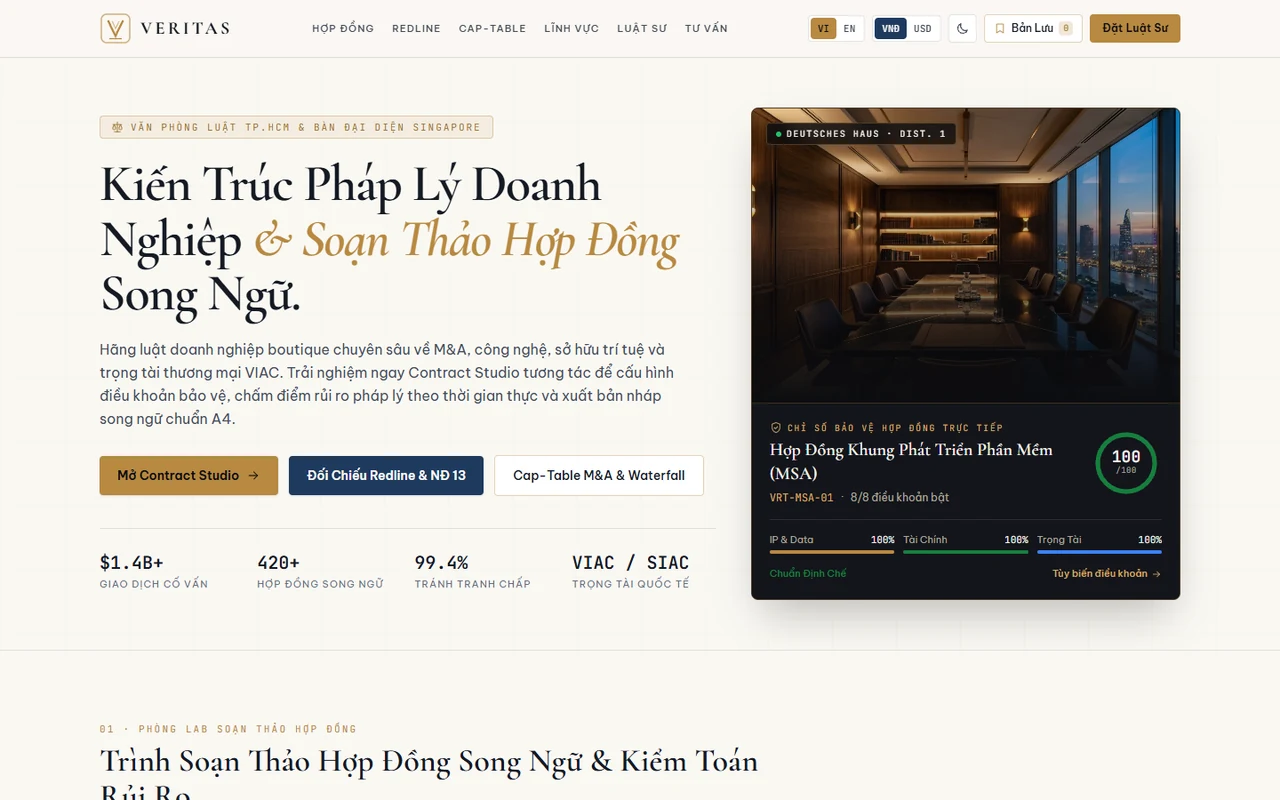
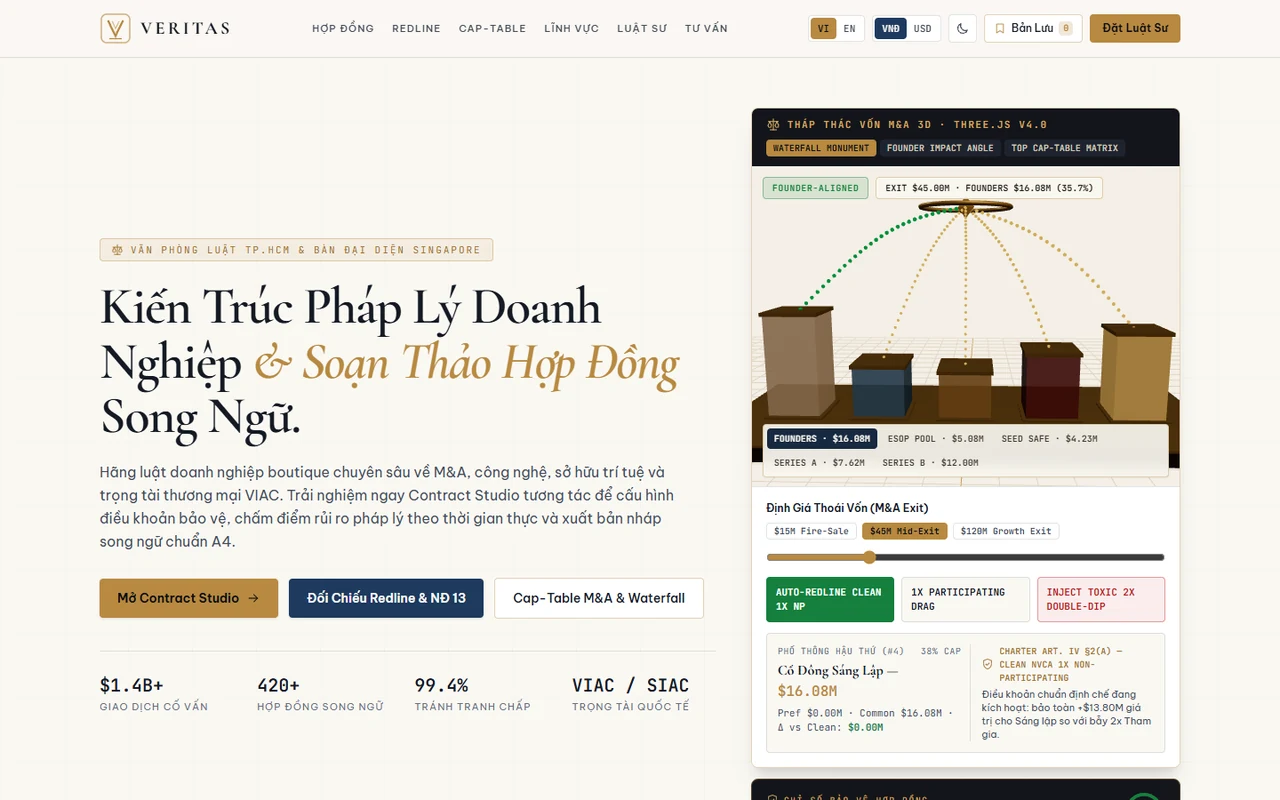
feat(wave5): sync 26/26 Master Interactive (20 Three.js 3D), TVT Pro Tools v3.0, 5,043 Live CI & refreshed 2026-11-28 CVs

diff --git a/src/data/atelierContent.ts b/src/data/atelierContent.ts
@@ -171,14 +171,14 @@ export const FLAGSHIP_WORKS: FlagshipWorkItem[] = [
     id: 'tvt-tools',
     index: '11',
     title: 'TVT Pro Tools',
-    version: 'v2.5 · 12 Engines',
+    version: 'v3.0 · 12 Engines',
     category: 'systems',
-    taglineEn: '12 Zero-Server Business & Engineering Engines (47kB Split): OpenAPI 3.1 Security Linter, B2B Estimator, 2026 PIT, VietQR & Crypto',
-    taglineVi: '12 Công Cụ Kinh Doanh & Kỹ Thuật Chạy 100% Tại Trình Duyệt (47kB Split): Kiểm Toán OpenAPI 3.1, Dự Toán B2B, Thuế 2026 & VietQR',
+    taglineEn: '60fps Drag-and-Wire SQL ERD Index Optimizer, Live OWASP API Attack Probe Radar & 12 Zero-Server Business/Dev Engines (47kB Split)',
+    taglineVi: 'Canvas Kéo-Thả SQL ERD 60fps Tối Ưu Chỉ Mục Join, Radar Tấn Công Bảo Mật OWASP API & 12 Công Cụ 100% Tại Trình Duyệt (47kB Split)',
     previewImage: 'previews/tvt-tools.webp',
-    highlightMetric: '12 Free Tools · OpenAPI Linter · 47kB Split',
-    ciBadge: '95/95 CI',
-    keywords: ['12 Local Engines', 'OpenAPI 3.1 Linter', 'URL State Share', 'B2B Estimator', 'VietQR + 2026 PIT'],
+    highlightMetric: '60fps SQL ERD · OWASP Radar · 12 Free Tools',
+    ciBadge: '107/107 CI',
+    keywords: ['60fps SQL ERD Drag', 'OWASP Attack Radar', 'OpenAPI 3.1 Linter', 'B2B Estimator', 'VietQR + 2026 PIT'],
     liveUrl: 'https://tvt987.github.io/tvt-tools/',
     repoUrl: 'https://github.com/tvt987/tvt-tools',
   },
@@ -261,14 +261,14 @@ export const FLAGSHIP_WORKS: FlagshipWorkItem[] = [
     id: 'coda-hr-payroll',
     index: '17',
     title: 'CodaHR Payroll',
-    version: 'v4.0 · .NET 10',
+    version: 'v5.0 · .NET 10',
     category: 'enterprise',
-    taglineEn: 'Full-Stack .NET 10 Global HRIS 2026: Global EOR vs B2B (-62% Savings), 48M ESOP Cliff Tax, Law 109/2025 PIT & Kanban ATS',
-    taglineVi: 'Full-Stack .NET 10 HRIS Toàn Cầu 2026: Global EOR vs B2B (-62%), Thuế ESOP 48 Tháng, Luật 109/2025 & Kanban ATS',
+    taglineEn: '60fps 3D Global Payroll Corridor Globe (6 Hubs · 240 Packets), Rising 48M ESOP Crystal Monolith (3x–10x), EOR vs B2B (-62%) & Law 109/2025',
+    taglineVi: 'Địa Cầu Bảng Lương Toàn Cầu 3D (6 Hub · 240 Gói Tin), Tháp ESOP 48 Tháng (3x–10x), So Sánh EOR vs B2B (-62%) & Luật 109/2025',
     previewImage: 'previews/coda-hr-payroll.webp',
-    highlightMetric: 'Global EOR (-62%) · 48M ESOP · Law 109/2025',
-    ciBadge: '152/152 CI',
-    keywords: ['.NET 10 Payroll API', 'Global EOR vs B2B', '48M ESOP Cliff', 'Law 109/2025 PIT', 'Kanban ATS'],
+    highlightMetric: '3D Payroll Globe · 48M ESOP · Law 109/2025',
+    ciBadge: '183/183 CI',
+    keywords: ['3D Payroll Globe', '48M ESOP Monolith', 'Global EOR vs B2B', 'Law 109/2025 PIT', 'Kanban ATS'],
     liveUrl: 'https://tvt987.github.io/coda-hr-payroll/',
     repoUrl: 'https://github.com/tvt987/coda-hr-payroll',
   },
@@ -276,14 +276,14 @@ export const FLAGSHIP_WORKS: FlagshipWorkItem[] = [
     id: 'lumina-medspa',
     index: '18',
     title: 'Lumina MedSpa',
-    version: 'v4.0 · .NET 10',
+    version: 'v5.0 · .NET 10',
     category: 'commerce',
-    taglineEn: 'Full-Stack .NET 10 Swiss MedSpa Clinic: Fitzpatrick Post-Laser UV Lab (0.45x), Multi-Suite Laser CapEx ROI & 42.8kB Split',
-    taglineVi: 'Full-Stack .NET 10 Phòng Khám Thẩm Mỹ Thụy Sĩ: Lab UV Sau Laser (0.45x), Hoàn Vốn Máy Laser Đa Phòng & Gói 42.8kB',
+    taglineEn: '60fps 3D Facial Laser Calibration & 3-Layer 2.6mm Dermal X-Ray Cutaway: 532/755/1064nm Beams, -18°C Cryo DCD & Fitzpatrick I–VI Guard',
+    taglineVi: 'Hiệu Chuẩn Laser 3D Trên Gương Mặt & X-Ray Giải Phẫu 3 Tầng Da 2.6mm: Bắn Tia 532/755/1064nm, Làm Lạnh Cryo -18°C & Bảo Vệ Fitzpatrick',
     previewImage: 'previews/lumina-medspa.webp',
-    highlightMetric: 'Post-Laser UV Lab · Laser CapEx ROI · 43kB',
-    ciBadge: '145/145 CI',
-    keywords: ['.NET 10 Slot Lock', 'UV Photobiology', 'Laser CapEx ROI', '12W Fitzpatrick', '42.8kB Code-Split'],
+    highlightMetric: '3D Facial Laser · Dermal X-Ray · Cryo -18°C',
+    ciBadge: '175/175 CI',
+    keywords: ['3D Facial Laser', 'Dermal Depth X-Ray', 'Cryo DCD -18°C', 'Fitzpatrick I–VI', 'Suite 409 Lock'],
     liveUrl: 'https://tvt987.github.io/lumina-medspa/',
     repoUrl: 'https://github.com/tvt987/lumina-medspa',
   },
@@ -366,14 +366,14 @@ export const FLAGSHIP_WORKS: FlagshipWorkItem[] = [
     id: 'veritas-legal-firm',
     index: '24',
     title: 'Veritas Legal',
-    version: 'v3.0 · FastAPI',
+    version: 'v4.0 · FastAPI',
     category: 'enterprise',
-    taglineEn: 'Full-Stack FastAPI Corporate M&A Studio: Post-Money SAFE & Liquidation Waterfall SVG, LCS Clause Redline & 38kB Split',
-    taglineVi: 'Full-Stack FastAPI Hãng Luật M&A: Thác Thanh Khoản Cap-Table & SAFE SVG, So Sánh Redline LCS & Gói 38kB',
+    taglineEn: '60fps 3D M&A Cap-Table Waterfall Monument: $10M–$150M Exit Scrubber, Inject Toxic 2x Double-Dip (-$13.8M) → Auto-Redline Clean 1x NP & PDPD',
+    taglineVi: 'Tháp Thác Vốn M&A Cap-Table 3D Thụy Sĩ: Trượt Định Giá $10M–$150M, Tiêm Bẫy 2x Tham Gia (-$13.8M) → Auto-Redline 1x NP & Nghị Định 13',
     previewImage: 'previews/veritas-legal-firm.webp',
-    highlightMetric: 'M&A Cap-Table SVG · LCS Redline · 38kB Split',
-    ciBadge: '118/118 CI',
-    keywords: ['FastAPI Legal API', 'M&A Cap-Table SAFE', 'LCS Clause Redline', 'Decree 13 PDPD', '38kB Code-Split'],
+    highlightMetric: '3D M&A Waterfall · Toxic 2x Redline · 35kB',
+    ciBadge: '150/150 CI',
+    keywords: ['3D M&A Waterfall', 'Toxic 2x Double-Dip', 'Auto-Redline 1x NP', 'Decree 13 PDPD', '35kB Code-Split'],
     liveUrl: 'https://tvt987.github.io/veritas-legal-firm/',
     repoUrl: 'https://github.com/tvt987/veritas-legal-firm',
   },
@@ -411,14 +411,14 @@ export const FLAGSHIP_WORKS: FlagshipWorkItem[] = [
     id: 'vanguard-fitness',
     index: '27',
     title: 'Vanguard Fitness',
-    version: 'v3.0 · .NET 10',
+    version: 'v4.0 · .NET 10',
     category: 'commerce',
-    taglineEn: 'Full-Stack .NET 10 Sports-Science Club: Karvonen Z1–Z5 & LT1/LT2 Lactate Curve SVG, Autonomic HRV/ACWR Readiness & FIFO Queue',
-    taglineVi: 'Full-Stack .NET 10 CLB Khoa Học Thể Thao: Vùng Tim Karvonen Z1–Z5 & Đường Lactate, Điểm Sẵn Sàng HRV/ACWR & Hàng Chờ FIFO',
+    taglineEn: '60fps 3D Bio-Telemetry Kinematic Runner Twin: 100W→380W Z5 VO2max Redline (8.4mM Lactate), Inject Overtrain (ACWR 1.65) → Auto-Deload HRV 94%',
+    taglineVi: 'Vận Động Viên Sinh Trắc 3D Kinematic: Đẩy 100W→380W Z5 VO2max (8.4mM Lactate), Tiêm Quá Tải ACWR 1.65 → Phác Đồ Deload Hồi Phục HRV 94%',
     previewImage: 'previews/vanguard-fitness.webp',
-    highlightMetric: 'Karvonen Lactate · HRV/ACWR · 57kB Split',
-    ciBadge: '131/131 CI',
-    keywords: ['.NET 10 FIFO Waitlist', 'Karvonen Z1-Z5', 'Lactate LT1/LT2', 'Autonomic HRV/ACWR', 'Equinox Daylight'],
+    highlightMetric: '3D Bio-Athlete · VO2/Lactate · Auto-Deload',
+    ciBadge: '162/162 CI',
+    keywords: ['3D Bio-Athlete Twin', 'VO2max + Lactate', 'ACWR 1.65 Overtrain', 'Autonomic Deload', 'Bio X-Ray Cam'],
     liveUrl: 'https://tvt987.github.io/vanguard-fitness/',
     repoUrl: 'https://github.com/tvt987/vanguard-fitness',
   },
@@ -426,14 +426,14 @@ export const FLAGSHIP_WORKS: FlagshipWorkItem[] = [
     id: 'solaris-academy',
     index: '28',
     title: 'Solaris Academy',
-    version: 'v3.0 · FastAPI',
+    version: 'v4.0 · FastAPI',
     category: 'enterprise',
-    taglineEn: 'Full-Stack FastAPI Engineering LMS: 5-Tier System Design Capacity & Bottleneck SVG Lab, Auto-Scale, Algo Visualizer & Zero-Eval AST',
-    taglineVi: 'Full-Stack FastAPI LMS Kỹ Sư: Phòng Lab Ước Tính Tải System Design 5 Tầng SVG, Tự Auto-Scale, Thuật Toán & Sandbox AST 0-Eval',
+    taglineEn: '60fps 3D 5-Tier Distributed Cloud Topology Sandbox (Edge→GW→App→Redis→DB): 1K–100K RPS, Cache Stampede Chaos, 1-Click Auto-Scale (<22ms) & AST',
+    taglineVi: 'Sa Bàn Kiến Trúc Phân Tán 5 Tầng 3D (Edge→GW→App→Redis→DB): 1K–100K RPS, Bão Cache Stampede, 1-Click Auto-Scale (<22ms) & Sandbox AST 0-Eval',
     previewImage: 'previews/solaris-academy.webp',
-    highlightMetric: '5-Tier System Design SVG · Zero-Eval AST · Oxford',
-    ciBadge: '112/112 CI',
-    keywords: ['FastAPI LMS API', 'System Design SVG', '1-Click Auto-Scale', 'Zero-Eval AST', 'Daylight Oxford UI'],
+    highlightMetric: '3D Cloud Topology · Cache Stampede · Auto-Scale',
+    ciBadge: '144/144 CI',
+    keywords: ['3D Cloud Topology', 'Cache Stampede Chaos', '1-Click Auto-Scale', 'Zero-Eval AST', 'Oxford Daylight UI'],
     liveUrl: 'https://tvt987.github.io/solaris-academy/',
     repoUrl: 'https://github.com/tvt987/solaris-academy',
   },

diff --git a/src/engines/__tests__/atelierV5.test.ts b/src/engines/__tests__/atelierV5.test.ts
@@ -112,18 +112,18 @@ describe('HYPERION ATELIER v5.0 — AI Twin RAG, JD Fit Matcher, Accent Engine &
     }
   });
 
-  it('verifies all 26 full-stack monorepos at v3.0–v7.0 plus TVT Studio v9.0 & TVT Tools v2.5 (4,851 showcase CI)', () => {
+  it('verifies all 26 full-stack monorepos at v4.0–v7.0 plus TVT Studio v9.0 & TVT Tools v3.0 (5,019 showcase CI)', () => {
     const studio = FLAGSHIP_WORKS.find((w) => w.id === 'tvt-studio');
     const tools = FLAGSHIP_WORKS.find((w) => w.id === 'tvt-tools');
     expect(studio?.version).toBe('v9.0 · Supabase RLS');
     expect(studio?.ciBadge).toBe('62/62 CI');
-    expect(tools?.version).toBe('v2.5 · 12 Engines');
-    expect(tools?.ciBadge).toBe('95/95 CI');
+    expect(tools?.version).toBe('v3.0 · 12 Engines');
+    expect(tools?.ciBadge).toBe('107/107 CI');
 
     const monorepos = FLAGSHIP_WORKS.filter((w) => w.id !== 'tvt-studio' && w.id !== 'tvt-tools');
     expect(monorepos).toHaveLength(26);
     for (const m of monorepos) {
-      expect(m.version).toMatch(/^v[3-7]\.0 · /);
+      expect(m.version).toMatch(/^v[4-7]\.0 · /);
     }
 
     const dotnetRepos = monorepos.filter((w) => w.version.includes('.NET 10'));
@@ -138,10 +138,10 @@ describe('HYPERION ATELIER v5.0 — AI Twin RAG, JD Fit Matcher, Accent Engine &
       expect(m?.[1]).toBe(m?.[2]);
       return sum + Number(m?.[1] ?? 0);
     }, 0);
-    expect(totalShowcaseTests).toBe(4851);
+    expect(totalShowcaseTests).toBe(5019);
   });
 
-  it('verifies all 21 Master Interactive flagship upgrades across Waves 1–4 (15 Three.js 3D + 6 GPU Canvas/WebGL2)', () => {
+  it('verifies all 26/26 Master Interactive flagship upgrades across Waves 1–5 (20 Three.js 3D + 6 GPU Canvas/WebGL2)', () => {
     const byId = new Map(FLAGSHIP_WORKS.map((w) => [w.id, w]));
 
     expect(byId.get('velox-ev-motors')?.version).toBe('v7.0 · .NET 10');
@@ -225,6 +225,27 @@ describe('HYPERION ATELIER v5.0 — AI Twin RAG, JD Fit Matcher, Accent Engine &
     expect(byId.get('kuro-omakase')?.version).toBe('v4.0 · .NET 10');
     expect(byId.get('kuro-omakase')?.ciBadge).toBe('153/153 CI');
     expect(byId.get('kuro-omakase')?.highlightMetric).toBe('3D Hinoki 14-Seat · Binchōtan Embers · Seat #7 POV');
+
+    // Wave 5 Final Master Interactive 3D Flagships (26/26 = 100% Master Interactive, 20 Three.js 3D)
+    expect(byId.get('lumina-medspa')?.version).toBe('v5.0 · .NET 10');
+    expect(byId.get('lumina-medspa')?.ciBadge).toBe('175/175 CI');
+    expect(byId.get('lumina-medspa')?.highlightMetric).toBe('3D Facial Laser · Dermal X-Ray · Cryo -18°C');
+
+    expect(byId.get('coda-hr-payroll')?.version).toBe('v5.0 · .NET 10');
+    expect(byId.get('coda-hr-payroll')?.ciBadge).toBe('183/183 CI');
+    expect(byId.get('coda-hr-payroll')?.highlightMetric).toBe('3D Payroll Globe · 48M ESOP · Law 109/2025');
+
+    expect(byId.get('vanguard-fitness')?.version).toBe('v4.0 · .NET 10');
+    expect(byId.get('vanguard-fitness')?.ciBadge).toBe('162/162 CI');
+    expect(byId.get('vanguard-fitness')?.highlightMetric).toBe('3D Bio-Athlete · VO2/Lactate · Auto-Deload');
+
+    expect(byId.get('veritas-legal-firm')?.version).toBe('v4.0 · FastAPI');
+    expect(byId.get('veritas-legal-firm')?.ciBadge).toBe('150/150 CI');
+    expect(byId.get('veritas-legal-firm')?.highlightMetric).toBe('3D M&A Waterfall · Toxic 2x Redline · 35kB');
+
+    expect(byId.get('solaris-academy')?.version).toBe('v4.0 · FastAPI');
+    expect(byId.get('solaris-academy')?.ciBadge).toBe('144/144 CI');
+    expect(byId.get('solaris-academy')?.highlightMetric).toBe('3D Cloud Topology · Cache Stampede · Auto-Scale');
   });
 
   it('verifies all 8 locally measured production API endpoints in VERIFIED_API_BENCHMARKS (HTTP 200, ordered P50/P95/P99)', () => {
@@ -277,19 +298,19 @@ describe('HYPERION ATELIER v5.0 — AI Twin RAG, JD Fit Matcher, Accent Engine &
     expect(DEFAULT_ACCENT_PAPER).not.toBe(DEFAULT_ACCENT_OBSIDIAN);
   });
 
-  it('surfaces v12.0 portfolio facts (29 live apps, 26/26 v3–v7 monorepos, 12 pro tools, 4,875 live CI) in AI Twin & JD Fit', () => {
+  it('surfaces v12.0 portfolio facts (29 live apps, 26/26 Master Interactive monorepos, 12 pro tools v3.0, 5,043 live CI) in AI Twin & JD Fit', () => {
     const portfolioAns = queryDigitalTwinLocal('Tell me about your 26 monorepos and live portfolio apps');
     expect(portfolioAns.id).toBe('live-flagships');
     expect(portfolioAns.title).toContain('29 Live Production Web Apps');
     expect(portfolioAns.title).toContain('26/26 Monorepos');
-    expect(portfolioAns.metrics.some((m) => m.includes('12 Free Pro Tools v2.5'))).toBe(true);
-    expect(portfolioAns.metrics.some((m) => m.includes('4,875 Live CI Tests'))).toBe(true);
+    expect(portfolioAns.metrics.some((m) => m.includes('12 Free Pro Tools v3.0'))).toBe(true);
+    expect(portfolioAns.metrics.some((m) => m.includes('5,043 Live CI Tests'))).toBe(true);
 
     const report = analyzeJdFit(SAMPLE_SENIOR_JD);
     expect(report.tailoredPitch).toContain('29 live web apps');
     expect(report.tailoredPitch).toContain('26/26 full-stack .NET 10 & FastAPI monorepos');
-    expect(report.tailoredPitch).toContain('12 Free Pro Tools');
-    expect(report.tailoredPitch).toContain('4,875 live CI tests');
+    expect(report.tailoredPitch).toContain('12 Free Pro Tools v3.0');
+    expect(report.tailoredPitch).toContain('5,043 live CI tests');
   });
 
   it('enforces zero UI emojis across all 28 flagship showcase entries', () => {

diff --git a/src/engines/aiTwinEngine.ts b/src/engines/aiTwinEngine.ts
@@ -133,21 +133,21 @@ const TWIN_KNOWLEDGE_BASE: KnowledgeEntry[] = [
   },
   {
     id: 'live-flagships',
-    title: '29 Live Production Web Apps · 26/26 Monorepos (v3–v7) · 12 Free Pro Tools (4,875 Live CI)',
+    title: '29 Live Production Web Apps · 26/26 Monorepos (100% Master Interactive · 20 Three.js 3D) · 12 Free Pro Tools v3.0 (5,043 Live CI)',
     terms: [
       'flagship', 'project', 'portfolio', 'live', 'demo', 'maison', 'vera', 'atelier',
       'canvas', 'aether', 'nexus', 'lake', 'three', 'webgl', 'webgpu', 'duckdb', 'wasm', 'crdt', 'yjs', 'figma', '3d',
       'studio', 'store', 'pos', 'medspa', 'proptech', 'lumina', 'kinetix', 'pulsepos', 'order', 'buy',
       'tools', 'vietqr', 'payroll', 'resort', 'ev', 'velox', 'aurelia', 'solaris', 'kuro', 'vanguard', 'meridian', 'coda', 'veritas', 'nordic', 'zenith',
       'chronos', 'tourbillon', 'watch', 'helios', 'quant', 'orderbook', 'trading', 'aeroforge', 'factory', 'twin', 'robot', 'kinematics', 'fft',
-      'orbitalflow', 'saas', 'fleetpulse', 'gis', 'medcore', 'ehr', 'fhir', 'monorepo', 'monorepos', '26', '29', '4875', '4851', '5045', '12',
+      'orbitalflow', 'saas', 'fleetpulse', 'gis', 'medcore', 'ehr', 'fhir', 'monorepo', 'monorepos', '26', '29', '5043', '5019', '5213', '12',
     ],
-    metrics: ['29 Live Web Apps (21 Master Interactive · 15 Three.js 3D)', '18 .NET 10 + 8 FastAPI Backends', '12 Free Pro Tools v2.5 (95/95 CI)', '4,875 Live CI Tests (5,045 Total GitHub)'],
-    keywords: ['Meridian v5 (3D Port)', 'Kinetix v5 (3D Tower)', 'Aurelia v5 (3D Cove)', 'PulsePOS v5 (3D Cafe)', 'Zenith v5 (3D Frontier)', 'Kuro v4 (3D Hinoki)'],
+    metrics: ['29 Live Web Apps (26/26 Master Interactive · 20 Three.js 3D)', '18 .NET 10 + 8 FastAPI Backends', '12 Free Pro Tools v3.0 (107/107 CI)', '5,043 Live CI Tests (5,213 Total GitHub)'],
+    keywords: ['Lumina v5 (3D Laser)', 'CodaHR v5 (3D Globe)', 'Vanguard v4 (3D Athlete)', 'Veritas v4 (3D Waterfall)', 'Solaris v4 (3D Cloud)', 'Pro Tools v3 (ERD+OWASP)'],
     actions: [
-      { label: 'Meridian 3D Port v5.0 ↗', href: 'https://tvt987.github.io/meridian-logistics/', accent: true },
-      { label: 'Kinetix 3D Tower v5.0 ↗', href: 'https://tvt987.github.io/kinetix-proptech/' },
-      { label: 'Zenith 3D Frontier v5.0 ↗', href: 'https://tvt987.github.io/zenith-wealth-fintech/' },
+      { label: 'Lumina 3D Laser v5.0 ↗', href: 'https://tvt987.github.io/lumina-medspa/', accent: true },
+      { label: 'CodaHR 3D Globe v5.0 ↗', href: 'https://tvt987.github.io/coda-hr-payroll/' },
+      { label: 'Solaris 3D Cloud v4.0 ↗', href: 'https://tvt987.github.io/solaris-academy/' },
     ],
   },
 ];
@@ -320,7 +320,7 @@ export function analyzeJdFit(jdText: string): JdFitReport {
 
   const topSkillsText =
     matchedSkills.slice(0, 5).join(', ') || '.NET 10, Python/FastAPI, React 19, MCP/RAG';
-  const tailoredPitch = `Truong Van Tinh — ${fitScorePct}% Stack Match (${topSkillsText}). Production proof: 700+ retail stores (.NET 8/Dapper/Redis), 139,099 RPS CAS engine, 29 live web apps (26/26 full-stack .NET 10 & FastAPI monorepos at v3–v7 · 15 Three.js 3D apps), 12 Free Pro Tools, 4,875 live CI tests (26/26 OpenAPI 3.1, 0 SAST findings). Remote B2B ($25–$45/hr, 4–6h US/EU/APAC overlap) · tinhkun102@gmail.com`;
+  const tailoredPitch = `Truong Van Tinh — ${fitScorePct}% Stack Match (${topSkillsText}). Production proof: 700+ retail stores (.NET 8/Dapper/Redis), 139,099 RPS CAS engine, 29 live web apps (26/26 full-stack .NET 10 & FastAPI monorepos · 100% Master Interactive · 20 Three.js 3D apps), 12 Free Pro Tools v3.0, 5,043 live CI tests (26/26 OpenAPI 3.1, 0 SAST findings). Remote B2B ($25–$45/hr, 4–6h US/EU/APAC overlap) · tinhkun102@gmail.com`;
 
   return {
     fitScorePct,

diff --git a/src/App.tsx b/src/App.tsx
@@ -1166,7 +1166,7 @@ export function App() {
       <footer className="relative z-10 py-8 pb-10 md:pb-24 px-5 sm:px-8 border-t border-[var(--hairline)]">
         <div className="max-w-[1200px] mx-auto flex flex-wrap items-center justify-between gap-2 font-mono-tech text-[11px] text-[var(--fg-muted)]">
           <span>© 2026 Truong Van Tinh · Ho Chi Minh City</span>
-          <span>29 Live Apps · 26/26 Full-Stack .NET 10 / FastAPI Monorepos (v3–v7 · 15 Three.js 3D) · 12 Free Pro Tools · 4,875 Live CI Tests · v12.0</span>
+          <span>29 Live Apps · 26/26 Full-Stack .NET 10 / FastAPI Monorepos (100% Master Interactive · 20 Three.js 3D) · 12 Free Pro Tools v3.0 · 5,043 Live CI Tests · v12.0</span>
         </div>
       </footer>
 
